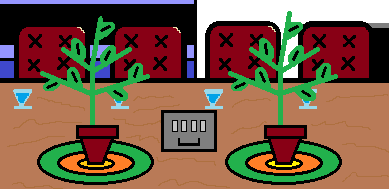
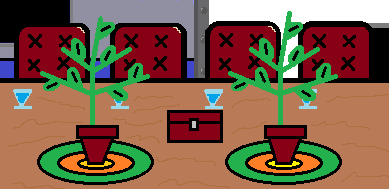
Reverted spot diffs to chest, edited  more backgrounds

Changed region(s): [[0.0, 0.0, 0.5553, 0.4233], [0.401, 0.582, 0.5861, 0.8201], [0.0, 0.2116, 0.0617, 0.3175]]

diff --git a/Rooms/BookcaseView.py b/Rooms/BookcaseView.py
@@ -174,8 +174,8 @@ def Room(screen, screen_res, events):
     virtual_screen2.fill("black")
     dark_overlay.fill((0, 0, 0, 150))
 
-    if lit or Objects.getPinkPower():
-        Assets.punch_light_hole(virtual_screen, dark_overlay, (virtual_screen.get_width()/2, virtual_screen.get_height()/2), 500, (100, 0, 100))
+    # if lit or Objects.getPinkPower():
+    #     Assets.punch_light_hole(virtual_screen, dark_overlay, (virtual_screen.get_width()/2, virtual_screen.get_height()/2), 500, (100, 0, 100))
 
     if not cutscene:
         virtual_screen.blit(bookcaseView, (0, 0))
@@ -245,7 +245,8 @@ def Room(screen, screen_res, events):
         if timer6.Done():
             virtual_screen2.blit(Onewayout, (0,0))
 
-    virtual_screen.blit(dark_overlay, (0, 0))
+    if not (lit or Objects.getPinkPower()):
+        virtual_screen.blit(dark_overlay, (0, 0))
 
     if not lit and not Objects.getPinkPower():
         tooDark.update()

diff --git a/Rooms/SpotDiffs.py b/Rooms/SpotDiffs.py
@@ -48,7 +48,8 @@ chairRect2 = pygame.Rect(110,21,76,57)
 chairRect3 = pygame.Rect(205,21,76,57)
 chairRect4 = pygame.Rect(298,21,76,57)
 
-letterRect = pygame.Rect(168,119,42,28)
+# letterRect = pygame.Rect(168,119,42,28)
+letterRect = pygame.Rect(180,117,32,6)
 
 def inBounds(x, y):
     global exit
@@ -110,7 +111,7 @@ def Room(screen, screen_res, events):
 
     virtual_screen.fill((195, 195, 195))
 
-    Assets.punch_light_hole(virtual_screen, dark_overlay, (virtual_screen.get_width()/2, virtual_screen.get_height()/2), 500, (100, 0, 100))
+    # Assets.punch_light_hole(virtual_screen, dark_overlay, (virtual_screen.get_width()/2, virtual_screen.get_height()/2), 500, (100, 0, 100))
 
     if not chestOpen:
         virtual_screen.blit(background, (0,0))
